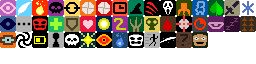
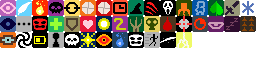
Katars, soporific weapons and electricity rework

Changed region(s): [[0.6875, 0.5, 0.8125, 0.75]]

diff --git a/core/src/main/java/com/trashboxbobylev/tormentpixeldungeon/actors/buffs/Electroshock.java b/core/src/main/java/com/trashboxbobylev/tormentpixeldungeon/actors/buffs/Electroshock.java
@@ -1,0 +1,120 @@
+/*
+ * Pixel Dungeon
+ * Copyright (C) 2012-2015  Oleg Dolya
+ *
+ * Shattered Pixel Dungeon
+ * Copyright (C) 2014-2017 Evan Debenham
+ *
+ * This program is free software: you can redistribute it and/or modify
+ * it under the terms of the GNU General Public License as published by
+ * the Free Software Foundation, either version 3 of the License, or
+ * (at your option) any later version.
+ *
+ * This program is distributed in the hope that it will be useful,
+ * but WITHOUT ANY WARRANTY; without even the implied warranty of
+ * MERCHANTABILITY or FITNESS FOR A PARTICULAR PURPOSE.  See the
+ * GNU General Public License for more details.
+ *
+ * You should have received a copy of the GNU General Public License
+ * along with this program.  If not, see <http://www.gnu.org/licenses/>
+ */
+
+package com.trashboxbobylev.tormentpixeldungeon.actors.buffs;
+
+import com.trashboxbobylev.tormentpixeldungeon.Dungeon;
+import com.trashboxbobylev.tormentpixeldungeon.effects.Lightning;
+import com.trashboxbobylev.tormentpixeldungeon.messages.Messages;
+import com.trashboxbobylev.tormentpixeldungeon.ui.BuffIndicator;
+import com.trashboxbobylev.tormentpixeldungeon.utils.GLog;
+import com.watabou.utils.Bundle;
+import com.watabou.utils.PointF;
+import com.watabou.utils.Random;
+
+public class Electroshock extends Buff {
+
+	{
+		type = buffType.NEGATIVE;
+	}
+	
+	protected int pos;
+    public float left;
+	
+	private static final String POS	= "pos";
+    private static final String LEFT = "left";
+	
+	@Override
+	public void storeInBundle( Bundle bundle ) {
+		super.storeInBundle( bundle );
+		bundle.put( POS, pos );
+        bundle.put( LEFT, left );
+		
+	}
+	
+	@Override
+	public void restoreFromBundle( Bundle bundle ) {
+		super.restoreFromBundle( bundle );
+		pos = bundle.getInt( POS );
+        left = bundle.getFloat( LEFT );
+	}
+
+    public void set( float duration ) {
+		this.left = Math.max(duration, left);
+	}
+
+	public void extend( float duration ) {
+		this.left += duration;
+	}
+	
+	@Override
+	public int icon() {
+		return BuffIndicator.ELECTROSHOCK;
+	}
+	
+	@Override
+	public String toString() {
+		return Messages.get(this, "name");
+	}
+	
+	@Override
+	public boolean act() {
+		if (target.isAlive()) {		
+			damage = Random.NormalIntRange((Dungeon.depth/5), Dungeon.depth);
+            if (Dungeon.level.water[pos]) damage *= 2;
+            if (target.pos != pos) {
+                pos = target.pos;
+                damage *= 2;
+            }	
+target.damage( damage * (Dungeon.isChallenged() ? 2 : 1), this );
+				if (target.sprite.visible) {
+					target.sprite.parent.add( new Lightning( target.pos, target.pos));
+			}
+				
+				if (target == Dungeon.hero && !target.isAlive()) {
+					Dungeon.fail( getClass() );
+					GLog.n( Messages.get(this, "ondeath") );
+				}
+				
+				spend( TICK );
+                if (left <= TICK){
+                    detach();
+                } else left -= TICK;
+			}
+			else {
+			
+			detach();
+			
+		}
+		
+		return true;
+	}
+
+	@Override
+	public String heroMessage() {
+		return Messages.get(this, "heromsg");
+	}
+
+	@Override
+	public String desc() {
+		return Messages.get(this, "desc", left);
+	}
+}

diff --git a/core/src/main/java/com/trashboxbobylev/tormentpixeldungeon/items/weapon/enchantments/Soporific.java b/core/src/main/java/com/trashboxbobylev/tormentpixeldungeon/items/weapon/enchantments/Soporific.java
@@ -19,48 +19,39 @@
  * along with this program.  If not, see <http://www.gnu.org/licenses/>
  */
 
-package com.trashboxbobylev.tormentpixeldungeon.items.armor.glyphs;
+package com.trashboxbobylev.tormentpixeldungeon.items.weapon.enchantments;
 
-import com.trashboxbobylev.tormentpixeldungeon.Dungeon;
 import com.trashboxbobylev.tormentpixeldungeon.actors.Char;
-import com.trashboxbobylev.tormentpixeldungeon.effects.Lightning;
-import com.trashboxbobylev.tormentpixeldungeon.items.armor.Armor;
-import com.trashboxbobylev.tormentpixeldungeon.items.armor.Armor.Glyph;
+import com.trashboxbobylev.tormentpixeldungeon.actors.buffs.Buff;
+import com.trashboxbobylev.tormentpixeldungeon.actors.buffs.Drowsy;
+import com.trashboxbobylev.tormentpixeldungeon.effects.CellEmitter;
+import com.trashboxbobylev.tormentpixeldungeon.effects.particles.PoisonParticle;
+import com.trashboxbobylev.tormentpixeldungeon.items.weapon.Weapon;
 import com.trashboxbobylev.tormentpixeldungeon.sprites.ItemSprite;
 import com.trashboxbobylev.tormentpixeldungeon.sprites.ItemSprite.Glowing;
-import com.watabou.noosa.Camera;
 import com.watabou.utils.Random;
 
-public class Potential extends Glyph {
-	
-	private static ItemSprite.Glowing WHITE = new ItemSprite.Glowing( 0xFFFFFF, 0.6f );
+public class Soporific extends Weapon.Enchantment {
+
+	private static ItemSprite.Glowing LIGHT_PURPLE = new ItemSprite.Glowing( 0xE975DE );
 	
 	@Override
-	public int proc( Armor armor, Char attacker, Char defender, int damage) {
-
-		int level = Math.max( 0, armor.level() );
-
-		if (Random.Int( level + 20 ) >= 18) {
-
-			int shockDmg = Random.NormalIntRange( 1, 3 );
-
-			defender.damage( shockDmg, this );
-			
-			checkOwner( defender );
-			if (defender == Dungeon.hero) {
-				Dungeon.hero.belongings.charge(1f + level/10f);
-				Camera.main.shake( 2, 0.3f );
-			}
-
-			attacker.sprite.parent.add( new Lightning( attacker.pos, defender.pos, null ) );
-
-		}
+	public int proc( Weapon weapon, Char attacker, Char defender, int damage ) {
+		// lvl 0 - 10%
+		// lvl 1 - 25%
+		// lvl 2 - 30%
+		int level = Math.max( 0, weapon.level() );
 		
+		if (Random.Int( level + 10 ) >= 2) {
+			
+			Buff.affect( defender, Drowsy.class );
+		}
+
 		return damage;
 	}
-
+	
 	@Override
 	public Glowing glowing() {
-		return WHITE;
+		return LIGHT_PURPLE;
 	}
 }

diff --git a/core/src/main/java/com/trashboxbobylev/tormentpixeldungeon/actors/Char.java b/core/src/main/java/com/trashboxbobylev/tormentpixeldungeon/actors/Char.java
@@ -32,6 +32,7 @@ import com.trashboxbobylev.tormentpixeldungeon.actors.buffs.Doom;
 import com.trashboxbobylev.tormentpixeldungeon.actors.buffs.EarthImbue;
 import com.trashboxbobylev.tormentpixeldungeon.actors.buffs.FireImbue;
 import com.trashboxbobylev.tormentpixeldungeon.actors.buffs.Frost;
+import com.trashboxbobylev.tormentpixeldungeon.actors.buffs.Electroshock;
 import com.trashboxbobylev.tormentpixeldungeon.actors.buffs.Hunger;
 import com.trashboxbobylev.tormentpixeldungeon.actors.buffs.MagicalSleep;
 import com.trashboxbobylev.tormentpixeldungeon.actors.buffs.Paralysis;
@@ -41,12 +42,16 @@ import com.trashboxbobylev.tormentpixeldungeon.actors.buffs.Speed;
 import com.trashboxbobylev.tormentpixeldungeon.actors.buffs.Vertigo;
 import com.trashboxbobylev.tormentpixeldungeon.actors.hero.Hero;
 import com.trashboxbobylev.tormentpixeldungeon.actors.hero.HeroSubClass;
+import com.trashboxbobylev.tormentpixeldungeon.actors.mobs.Shaman;
 import com.trashboxbobylev.tormentpixeldungeon.items.rings.RingOfElements;
+import com.trashboxbobylev.tormentpixeldungeon.items.armor.glyphs.Potential;
+import com.trashboxbobylev.tormentpixeldungeon.items.weapon.enchantments.Shocking;
 import com.trashboxbobylev.tormentpixeldungeon.levels.Terrain;
 import com.trashboxbobylev.tormentpixeldungeon.levels.features.Door;
 import com.trashboxbobylev.tormentpixeldungeon.messages.Messages;
 import com.trashboxbobylev.tormentpixeldungeon.sprites.CharSprite;
 import com.trashboxbobylev.tormentpixeldungeon.utils.GLog;
+import com.trashboxbobylev.tormentpixeldungeon.items.wands.WandOfLightning;
 import com.watabou.noosa.Camera;
 import com.watabou.noosa.audio.Sample;
 import com.watabou.utils.Bundlable;
@@ -268,6 +273,8 @@ public abstract class Char extends Actor {
 		if (this.buff(Doom.class) != null){
 			dmg *= 2;
 		}
+
+        if ((src instanceof WandOfLightning || src instanceof Shaman || src instanceof Potential || src instanceof Shocking) && Random.Int(5) == 0) Buff.affect(this, Electroshock.class).set(Electroshock.durationFactor() * Random.IntRange(4, 10));
 		
 		Class<?> srcClass = src.getClass();
 		if (immunities().contains( srcClass )) {

diff --git a/core/src/main/java/com/trashboxbobylev/tormentpixeldungeon/items/weapon/Weapon.java b/core/src/main/java/com/trashboxbobylev/tormentpixeldungeon/items/weapon/Weapon.java
@@ -47,6 +47,7 @@ import com.trashboxbobylev.tormentpixeldungeon.items.weapon.enchantments.Lucky;
 import com.trashboxbobylev.tormentpixeldungeon.items.weapon.enchantments.Projecting;
 import com.trashboxbobylev.tormentpixeldungeon.items.weapon.enchantments.Shocking;
 import com.trashboxbobylev.tormentpixeldungeon.items.weapon.enchantments.Stunning;
+import com.trashboxbobylev. tormentpixeldungeon.items.weapon.enchantments.Soporific;
 import com.trashboxbobylev.tormentpixeldungeon.items.weapon.enchantments.Unstable;
 import com.trashboxbobylev.tormentpixeldungeon.items.weapon.enchantments.Vampiric;
 import com.trashboxbobylev.tormentpixeldungeon.items.weapon.enchantments.Venomous;
@@ -298,11 +299,11 @@ abstract public class Weapon extends KindOfWeapon {
 
 		private static final Class<?>[] enchants = new Class<?>[]{
 			Blazing.class, Venomous.class, Vorpal.class, Shocking.class,
-			Chilling.class, Eldritch.class, Lucky.class, Projecting.class, Unstable.class, Dazzling.class, Impulse.class, 
+			Chilling.class, Eldritch.class, Lucky.class, Projecting.class, Unstable.class, Dazzling.class, Impulse.class, Soporific.class,
 			Grim.class, Stunning.class, Vampiric.class,};
 		private static final float[] chances= new float[]{
 			10, 10, 10, 10,
-			5, 5, 5, 5, 5, 5, 5,
+			5, 5, 5, 5, 5, 5, 5, 5,
 			2, 2, 2 };
 
 		private static final Class<?>[] curses = new Class<?>[]{

diff --git a/core/src/main/java/com/trashboxbobylev/tormentpixeldungeon/items/weapon/melee/Katars.java b/core/src/main/java/com/trashboxbobylev/tormentpixeldungeon/items/weapon/melee/Katars.java
@@ -1,0 +1,42 @@
+/*
+ * Pixel Dungeon
+ * Copyright (C) 2012-2015  Oleg Dolya
+ *
+ * Shattered Pixel Dungeon
+ * Copyright (C) 2014-2017 Evan Debenham
+ *
+ * This program is free software: you can redistribute it and/or modify
+ * it under the terms of the GNU General Public License as published by
+ * the Free Software Foundation, either version 3 of the License, or
+ * (at your option) any later version.
+ *
+ * This program is distributed in the hope that it will be useful,
+ * but WITHOUT ANY WARRANTY; without even the implied warranty of
+ * MERCHANTABILITY or FITNESS FOR A PARTICULAR PURPOSE.  See the
+ * GNU General Public License for more details.
+ *
+ * You should have received a copy of the GNU General Public License
+ * along with this program.  If not, see <http://www.gnu.org/licenses/>
+ */
+
+package com.trashboxbobylev.tormentpixeldungeon.items.weapon.melee;
+
+import com.trashboxbobylev.tormentpixeldungeon.sprites.ItemSpriteSheet;
+
+public class Katars extends MeleeWeapon {
+
+	{
+		image = ItemSpriteSheet.KATARS;
+
+		tier = 4;
+		DLY = 0.5f; //2x speed
+        ACC = 1.1f; //10% boost to accuracy
+	}
+
+	@Override
+	public int max(int lvl) {
+		return  3*(tier+1) +    //15 base, down from 25
+				lvl*(tier-1);       //+3 per level, down from +5
+	}
+
+}

diff --git a/core/src/main/java/com/trashboxbobylev/tormentpixeldungeon/items/weapon/enchantments/Shocking.java b/core/src/main/java/com/trashboxbobylev/tormentpixeldungeon/items/weapon/enchantments/Shocking.java
@@ -51,7 +51,7 @@ public class Shocking extends Weapon.Enchantment {
 
 			arcs.clear();
 			arcs.add(new Lightning.Arc(attacker.sprite.center(), defender.sprite.center()));
-			hit(defender, Random.Int(1, damage / 3));
+			hit(defender, Random.Int(1, damage / 6));
 
 			attacker.sprite.parent.addToFront( new Lightning( arcs, null ) );
 			
@@ -86,7 +86,7 @@ public class Shocking extends Weapon.Enchantment {
 			Char n = Actor.findChar( ch.pos + PathFinder.NEIGHBOURS8[i] );
 			if (n != null && !affected.contains( n )) {
 				arcs.add(new Lightning.Arc(ch.sprite.center(), n.sprite.center()));
-				hit(n, Random.Int(damage / 2, damage));
+				hit(n, Random.Int(damage / 4, damage));
 			}
 		}
 	}

diff --git a/core/src/main/java/com/trashboxbobylev/tormentpixeldungeon/items/wands/WandOfLightning.java b/core/src/main/java/com/trashboxbobylev/tormentpixeldungeon/items/wands/WandOfLightning.java
@@ -53,11 +53,11 @@ public class WandOfLightning extends DamageWand {
 	ArrayList<Lightning.Arc> arcs = new ArrayList<>();
 
 	public int min(int lvl){
-		return 5+lvl;
+		return 3+lvl;
 	}
 
 	public int max(int lvl){
-		return 10+5*lvl;
+		return 8+3*lvl;
 	}
 	
 	@Override
@@ -68,8 +68,8 @@ public class WandOfLightning extends DamageWand {
 		//if the main target is in water, all affected take full damage
 		if (Dungeon.level.water[bolt.collisionPos]) multipler = 1f;
 
-		int min = 5 + level();
-		int max = 10 + 5*level();
+		int min = 3 + level();
+		int max = 8 + 3*level();
 
 		for (Char ch : affected){
 			processSoulMark(ch, chargesPerCast());

diff --git a/core/src/main/java/com/trashboxbobylev/tormentpixeldungeon/sprites/ItemSpriteSheet.java b/core/src/main/java/com/trashboxbobylev/tormentpixeldungeon/sprites/ItemSpriteSheet.java
@@ -182,12 +182,14 @@ public class ItemSpriteSheet {
 	public static final int FLAIL           = WEP_TIER4+2;
 	public static final int RUNIC_BLADE     = WEP_TIER4+3;
 	public static final int ASSASSINS_BLADE = WEP_TIER4+4;
+    public static final int KATARS = WEP_TIER4+5;
 	static{
 		assignItemRect(LONGSWORD,       15, 15);
 		assignItemRect(BATTLE_AXE,      16, 16);
 		assignItemRect(FLAIL,           14, 14);
 		assignItemRect(RUNIC_BLADE,     14, 14);
 		assignItemRect(ASSASSINS_BLADE, 14, 15);
+        assignItemRect(KATARS, 11, 16);
 	}
 
 	private static final int WEP_TIER5      =                               xy(1, 9);   //8 slots

diff --git a/core/src/main/java/com/trashboxbobylev/tormentpixeldungeon/actors/mobs/Shaman.java b/core/src/main/java/com/trashboxbobylev/tormentpixeldungeon/actors/mobs/Shaman.java
@@ -128,7 +128,7 @@ public class Shaman extends Mob implements Callback {
         super.die(cause);
         
         if (Random.Int(50) == 0 && Dungeon.isChallenged()) {
-Dungeon.level.drop(Generator.random(WandOfLightning. class), pos).sprite.drop();
+Dungeon.level.drop(Generator.random(WandOfLightning.class), pos).sprite.drop();
         
         }
     }

diff --git a/core/src/main/java/com/trashboxbobylev/tormentpixeldungeon/levels/RegularLevel.java b/core/src/main/java/com/trashboxbobylev/tormentpixeldungeon/levels/RegularLevel.java
@@ -132,8 +132,8 @@ public abstract class RegularLevel extends Level {
 	protected Builder builder(){
 		return new LoopBuilder()
 				.setLoopShape( 2 ,
-						Random.Float(0.4f, 0.7f),
-						Random.Float(0f, 0.5f));
+						Random.Float(0.4f, 1.5f),
+						Random.Float(0f, 1f));
 	}
 	
 	protected abstract Painter painter();

diff --git a/core/src/main/java/com/trashboxbobylev/tormentpixeldungeon/ui/BuffIndicator.java b/core/src/main/java/com/trashboxbobylev/tormentpixeldungeon/ui/BuffIndicator.java
@@ -87,6 +87,7 @@ public class BuffIndicator extends Component {
 	public static final int BERSERK     = 40;
 	public static final int MOMENTUM    = 41;
 	public static final int PREPARATION = 42;
+    public static final int ELECTROSHOCK = 43;
 
 	public static final int SIZE	= 7;
 	
